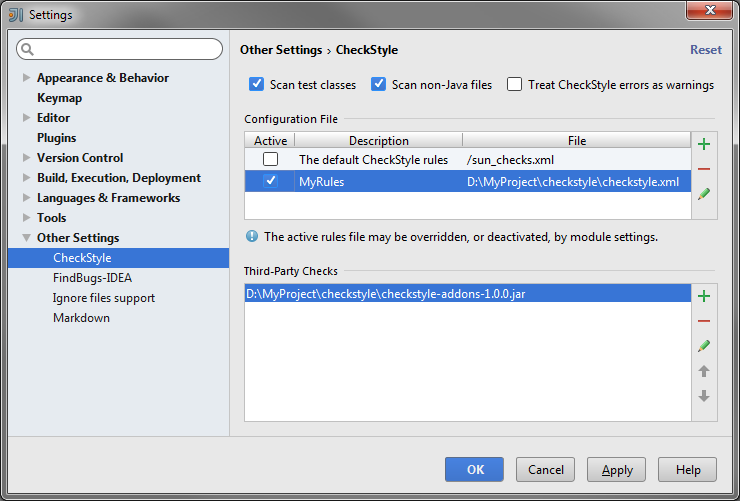
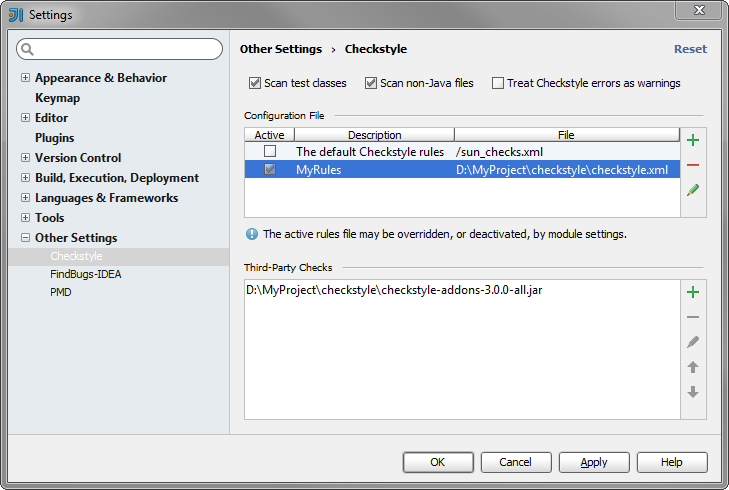
Update getting started pages for v3.0.0 (use of fatjar)

Changed region(s): [[0.0, 0.0, 1.0, 1.0], [0.332, 0.1531, 0.9657, 0.1837]]

diff --git a/run.html b/run.html
@@ -84,9 +84,11 @@ The example above has been tested with the Checkstyle dependency set to 6.2 - {{
 
 ## Ant
 
-In Ant, we must add {{ site.name }} to the classpath of the [Checkstyle Ant Task]({{ site.link_cs_anttask }}){:target="_blank"}. The Ant task is part of the standard Checkstyle distribution. We need **at least Checkstyle 6.2** (currently tested up to {{ site.latest_checkstyle_tested }}). And of course the {{ site.name }} jar file:
+In Ant, we must add {{ site.name }} to the classpath of the [Checkstyle Ant Task]({{ site.link_cs_anttask }}){:target="_blank"}. The Ant task is part of the standard Checkstyle distribution. We need **at least Checkstyle 6.2** (currently tested up to {{ site.latest_checkstyle_tested }}), and the {{ site.name }} FatJAR:
 
-<p><a href="https://github.com/{{ site.github }}/releases/download/v{{ site.latest_version }}/checkstyle-addons-{{ site.latest_version }}.jar" class="btn btn-primary">Download JAR</a></p>
+<p><a href="https://github.com/{{ site.github }}/releases/download/v{{ site.latest_version }}/checkstyle-addons-{{ site.latest_version }}-all.jar" class="btn btn-primary">Download FatJAR</a></p>
+
+The FatJAR (some people say "UberJAR") is simply a JAR which includes {{ site.name }} along with all its dependencies except Checkstyle itself.
 
 Then, in our Ant *build.xml*, we declare the Checkstyle task as follows:
 
@@ -94,7 +96,7 @@ Then, in our Ant *build.xml*, we declare the Checkstyle task as follows:
 <taskdef resource="checkstyletask.properties">
     <classpath>
         <pathelement location="lib/checkstyle-{{ site.latest_version_checkstyle }}-all.jar"/>
-        <pathelement location="lib/checkstyle-addons-{{ site.latest_version }}.jar"/>
+        <pathelement location="lib/checkstyle-addons-{{ site.latest_version }}-all.jar"/>
     </classpath>
 </taskdef>
 {% endhighlight %}
@@ -122,19 +124,19 @@ If you use Ivy for dependency management in Ant, you can take advantage of the f
 
 In IntelliJ IDEA or Android Studio, {{ site.name }} runs as a third-party addon to the [Checkstyle-IDEA plugin](https://plugins.jetbrains.com/plugin/1065){:target="_blank"}. So first make sure you've got Checkstyle-IDEA. If not, install via *File &rarr; Settings... &rarr; Plugins &rarr; Browse Repostories*.
 
-<p><a href="https://github.com/{{ site.github }}/releases/download/v{{ site.latest_version }}/checkstyle-addons-{{ site.latest_version }}.jar" class="btn btn-primary">Download Plugin</a></p>
+<p><a href="https://github.com/{{ site.github }}/releases/download/v{{ site.latest_version }}/checkstyle-addons-{{ site.latest_version }}-all.jar" class="btn btn-primary">Download Plugin</a></p>
 
- After that, you can add {{ site.name }} to the third-party checks:
+After that, you can add {{ site.name }} to the third-party checks:
 
 <div class="csa-largeImageWrapper">
-<img src="{{ site.baseurl }}/images/run-intellij.png" alt="{{ site.name }} in IntelliJ IDEA" width="740" height="501" />
+<img src="{{ site.baseurl }}/images/run-intellij.png" alt="{{ site.name }} in IntelliJ IDEA" width="729" height="490" />
 </div>
 
 Checkstyle-IDEA does not offer a visual editor, so you'll have to activate the {{ site.name }} checks by modifying your *checkstyle.xml* directly.
 
 The {{ site.name }} version offered by the above download button is compatible with Checkstyle 6.2 - {{ site.latest_checkstyle_tested }} (which means Checkstyle-IDEA 4.14.0 and up). If you are using the older Checkstyle versions 6.0 - 6.1.1, you must use a special, compatible version of {{ site.name }} instead:
 
-<p><a href="https://github.com/{{ site.github }}/releases/download/v{{ site.latest_version }}/checkstyle-addons-java6-{{ site.latest_version }}.jar" class="btn btn-warning btn-sm">Download Legacy Plugin</a></p>
+<p><a href="https://github.com/{{ site.github }}/releases/download/v{{ site.latest_version }}/checkstyle-addons-java6-{{ site.latest_version }}-all.jar" class="btn btn-warning btn-sm">Download Legacy Plugin</a></p>
 
 
 <!-- ======================================================================================= -->
@@ -230,16 +232,16 @@ The SonarQube rules provided by {{ site.name }} are tagged with `checkstyle-addo
 
 ## Command Line
 
-Checkstyle can also be run [from the command line](http://checkstyle.sourceforge.net/cmdline.html){:target="_blank"}. {{ site.name }} is included by simply adding it to the classpath.
+Checkstyle can also be run [from the command line](http://checkstyle.sourceforge.net/cmdline.html){:target="_blank"}. {{ site.name }} is included by simply adding its FatJAR to the classpath.
 If you are using at least Java&nbsp;7, and at least Checkstyle 6.2 (tested up to {{ site.latest_checkstyle_tested }}), you may use the regular JAR. If you are using Checkstyle 6.0 - 6.1.1, you must use the legacy JAR. The code you're analyzing can be anything up to Java&nbsp;8.
 
-<p><a href="https://github.com/{{ site.github }}/releases/download/v{{ site.latest_version }}/checkstyle-addons-{{ site.latest_version }}.jar" class="btn btn-primary">Download regular JAR</a> &nbsp; &nbsp; &nbsp;
-<a href="https://github.com/{{ site.github }}/releases/download/v{{ site.latest_version }}/checkstyle-addons-java6-{{ site.latest_version }}.jar" class="btn btn-warning btn-sm">Download legacy JAR</a></p>
+<p><a href="https://github.com/{{ site.github }}/releases/download/v{{ site.latest_version }}/checkstyle-addons-{{ site.latest_version }}-all.jar" class="btn btn-primary">Download regular JAR</a> &nbsp; &nbsp; &nbsp;
+<a href="https://github.com/{{ site.github }}/releases/download/v{{ site.latest_version }}/checkstyle-addons-java6-{{ site.latest_version }}-all.jar" class="btn btn-warning btn-sm">Download legacy JAR</a></p>
 
 Now you can run Checkstyle with {{ site.name }} like this (example for regular JAR):
 
 ```
-java -cp checkstyle-addons-{{ site.latest_version }}.jar;checkstyle-{{ site.latest_version_checkstyle }}-all.jar com.puppycrawl.tools.checkstyle.Main -c your-checkstyle.xml src
+java -cp checkstyle-addons-{{ site.latest_version }}-all.jar;checkstyle-{{ site.latest_version_checkstyle }}-all.jar com.puppycrawl.tools.checkstyle.Main -c your-checkstyle.xml src
 ```
 
 The above assumes that your sources are in a subdirectory *src*, and that the required JARs and your configuration file are in the current directory.
